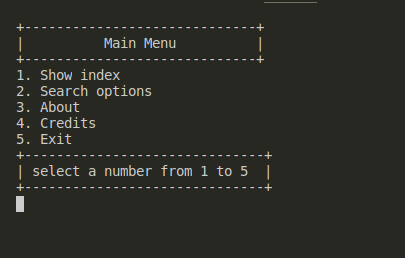
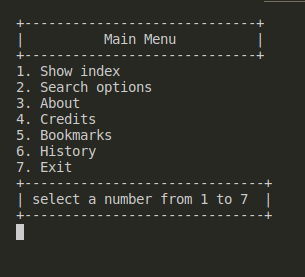
update README file with project new features and new images describing then

diff --git a/lib/input_checker.rb b/lib/input_checker.rb
@@ -1,5 +1,3 @@
-require 'byebug'
-
 class Inputchecker
   require 'rbconfig'
   include RbConfig

diff --git a/README.md b/README.md
@@ -84,6 +84,16 @@ Enter a word(Ex. batman) and this will return all the movies that contain that w
 
 Now you only have to enter the number of the movie you want to see the info off, just like we saw before if you want to look for another movie just press enter, and it will ask you again to enter a name, to go back to the menu just press m on the search by name screen.
 
+The App also includes a bookmark option you can find on the movie profile, in case you want to compare movies one to another, you save as many as you can and then from the menu you select the option 5, and this will show you the list of bookmarked movies in list of 20 movies per page.
+
+<img src="./resources/bookmarks.png">
+
+Once on the bookmark menu you can open each movie profile just like before and even remove the movie from the bookmarks.
+
+To end there is also a history option on the menu, that let you see all the movies profile you have visited in case you forgot to bookmark a movie and dont want to search for the movie again, you can find it on the history.
+
+<img src="./resources/history.png">
+
 ## Authors
 
 👤 **Jose Alberto Arriaga Ramos**
